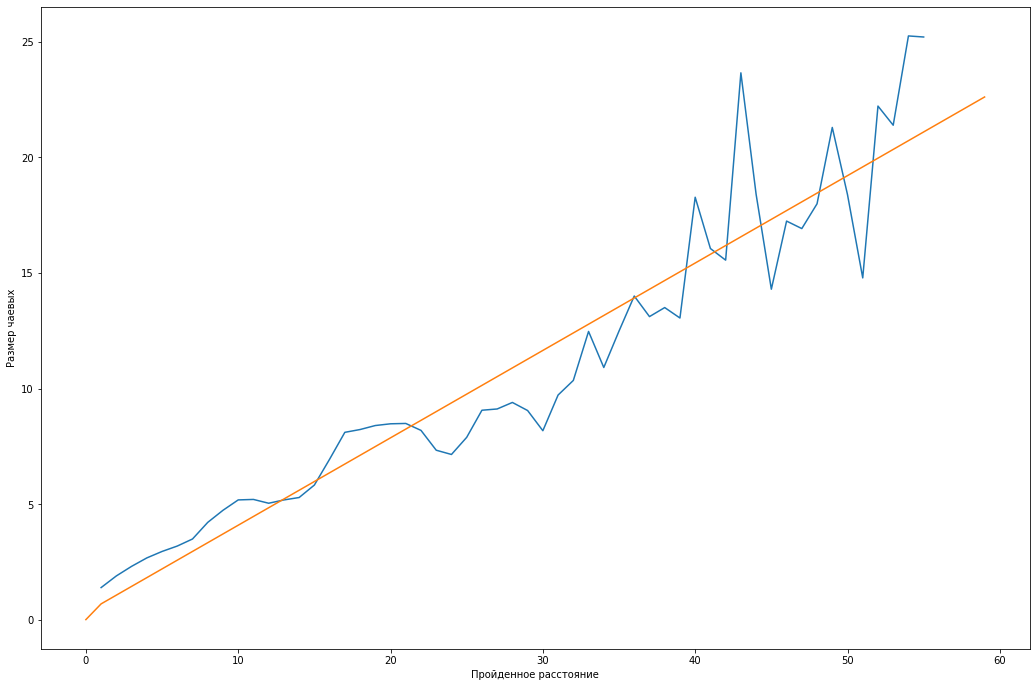
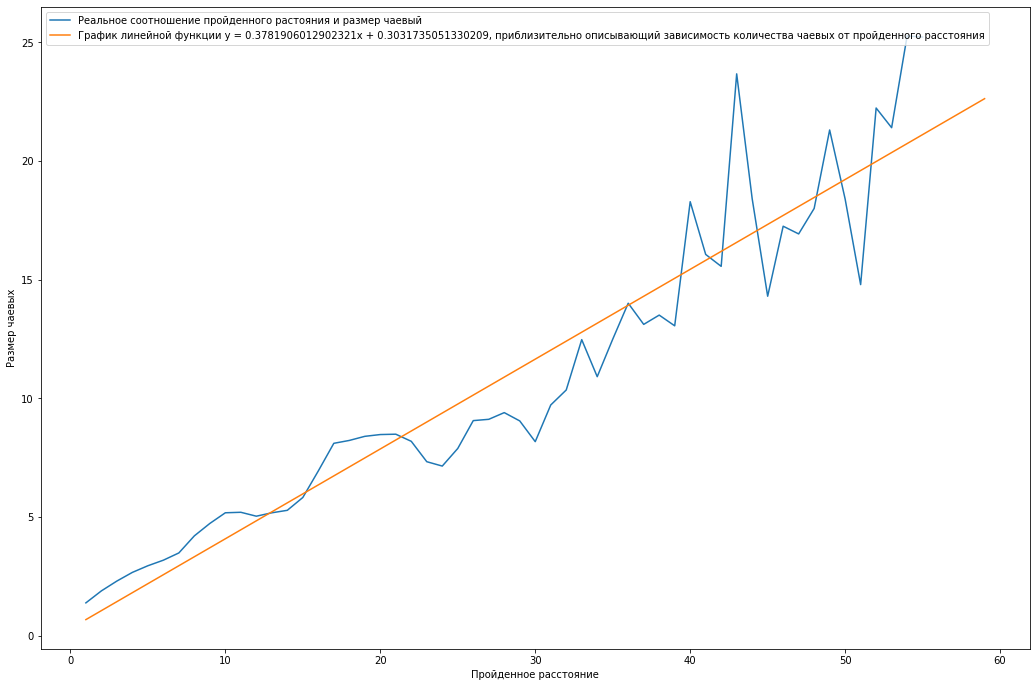
.

diff --git a/ReadMe.md b/ReadMe.md
@@ -1,4 +1,33 @@
-**Курс 'Инженер данных'. Итоговая аттестация**
+# Курс 'Инженер данных'. Итоговая аттестация
+
+## Проект "Служба такси"
+
+### Требования:
+
+Дан csv файл с данными по поездак такси в Нью-Йорке, необходимо используя эти данные рассчитать процент поездок по количеству человек в машине (без пассажиров, 1, 2,3,4 и более пассажиров). По итогу должна получиться таблица (parquet) с колонками date, percentage_zero, percentage_1p, percentage_2p, percentage_3p, percentage_4p_plus.
+
+Так же дополнительно необходимо провести аналитику и построить график на тему “как пройденное расстояние и количество пассажиров влияет на чаевые”
+
+### План реализации
+1. Установить intellij idea
+2. Установить Scala
+3. Установить локально Spark
+4. Установить VS Code + Anaconda (для построения графика)
+5. Реализовать парсинг данных и выгрузку результата согласно требования
+6. Провести аналитику и построить график на тему “как пройденное расстояние и количество пассажиров влияет на чаевые”
+
+### Испольуемые технологии
+
+Для первой части задания было решено использовать язык программирования Scala и фреймворк для обработки неструктурированных и слабоструктурированных данных Spark. Причина выбора именно Spark, а не классического SQL, сугубо учебная, т.к. с SQL я уже знаком на достаточно хорошем уровне.
+
+Для второй части задания ипользуется:
+1. Scala + Spark для подготовки данных для визуализцаии
+2. python + matplotlib непрсредственно для визуализации
+3. python + sklearn для подбора параметров линейной функции, приближонно
+
+### Архитектура
+
+На вход программе подаётся csv файл, на выходе получаем таблицу, сохранённую в parquet-формате.
 
 Схема таблицы-результата:
 
@@ -21,30 +50,20 @@
 | cheapest_4plus |   Double   |
 | dearest_4plus |   Double   |
 
-Для ускорения обработки данных на локальной машине была написана функиця конвертации исходной таблицы в формат parquet.
+Во время тестовых было выявлено, что при работе с dataframe'ом, основаном на csv-файле, spark очень много раз читает этот файл с самого начала, т.е. хоть какая-то индексация для этого формата отсутствует. Для ускорения обработки данных перед тем, как начать обработку, исходный csv-файл конвертируется в формат parquet, что дало значительный прирост производительности.
 
+Для реализации второй части задания в исходный датасет было добавлено дополнительное поле, содержащее округлённое до следующего целого значение пройденного
+растояния, затем весь датасет был сгруппирован по этому полю, и для каждого округлённого растояния выведено среднее значение чаевых, после чего полученный датасет был сохранён в формате csv для последующей визуализации с помощью python. Предоставлен на картинке ниже:
 
-Так же к исходным данным была добвалена колонка, содержащая даты поездок без времени, что бы можно было по ним 
-сгруппировать исходные данные и получить нужные нам значения для всех пяти групп
-
-
-Далее всё тривиально: пробегаемся по всем датам и арргегируем полученные значения в результатирующей таблице, после чего сохраняем ее на диск
-
-Одна беда: не очень шустро всё отрабатывает, на моей машине 4 минуты на датасет из задания. Куда копать в плане 
-оптимизации - не знаю =( 
+![](https://github.com/KurlesHS/de-attestation/blob/master/images/dist_and_tip.png?raw=true)
 
 
 **Дополнительное задание**
 
 Так же все просто - добавляем в датасет дополнительное поле, содержащее округлённое до следующего целого значение пройденного
-растояния, затем группируем по этому полю и отфильтовываем то пройденное растояние, где чаевые отсутствовали или количество 
+растояния, затем группируем по этому полю и отфильтовываем то пройденное растояние, где чаевые отсутствовали или количество
 поездок было меньше 20. Сохраняем полученный результат для поледующей визуализации в python'е.
-Картинка ниже отображает соотношение пройденой дистанции и количества чаевых, где синий график - выгрузка из нашего 
+Картинка ниже отображает соотношение пройденой дистанции и количества чаевых, где синий график - выгрузка из нашего
 датасета, а оранжевый - линейный график  **_y = 0.3781906012902321x + 0.3031735051330209_**, приблизительно
 описывающий зависимость количества чаевых от пройденного расстояния. Jupyter notebook, рисующий график и вычисляющий
 коофициэнты линейной функции можно найти в папке ./python
-
-![](https://github.com/KurlesHS/de-attestation/blob/master/images/dist_and_tip.png?raw=true)
-
-
-
